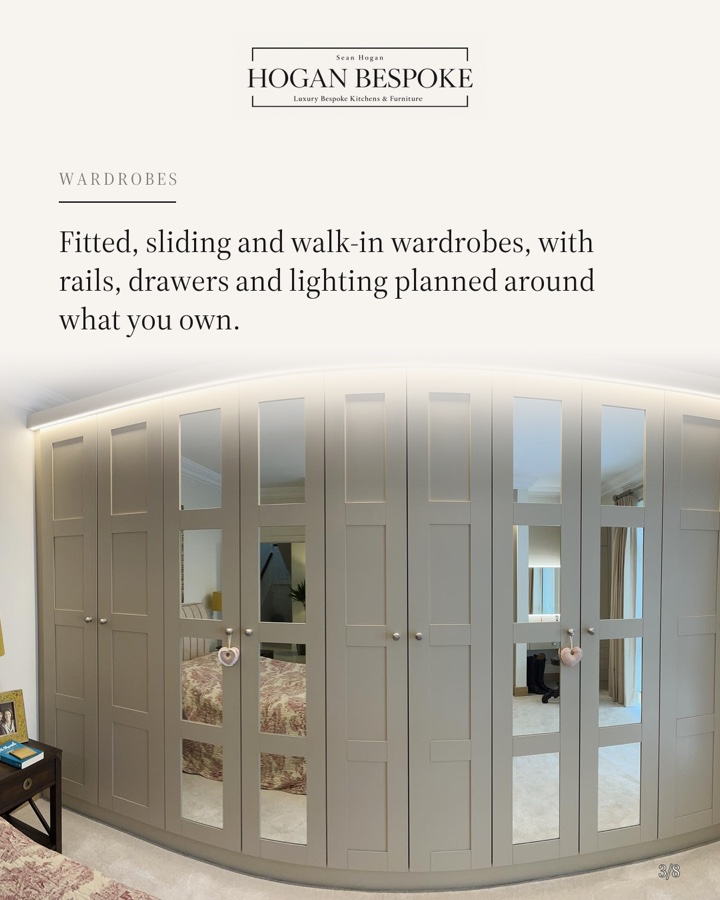
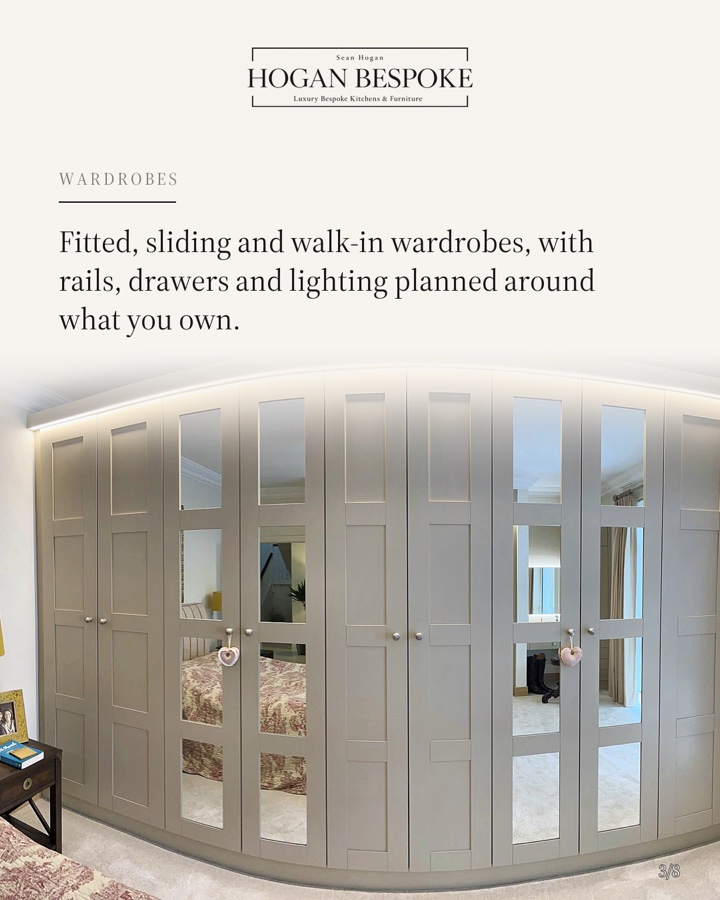
Hogan post 2: retouched photos and better crops

diff --git a/public/approve/hogan-bespoke-x96pyh/index.html b/public/approve/hogan-bespoke-x96pyh/index.html
@@ -37,7 +37,7 @@
     <span>Eli Fátima · Irish Business Boosters · hello@irishbusinessboosters.com</span>
   </footer>
 </div>
-<script id="approval-data" type="application/json">{"page": "hogan-bespoke-x96pyh", "client": "Sean", "username": "hogan_bespoke_furniture", "avatar": "logo.png", "location": "Waterford, Ireland", "profile": {"id": "profile", "title": "New bio and highlights", "chips": ["Pick one bio"], "intro": "This is how your profile will look by the end of November: the new bio, the new highlight covers and the new posts at the top.", "about": "Both bios say who you are, what you make, and that you fit all over Ireland. Pick the one that sounds more like you.", "name": "Hogan Bespoke | Kitchens Ireland", "category": "Kitchen & cabinet designer", "link": "hoganbespokefurniture.com", "stats": ["175", "1,407", "609"], "choices": [{"id": "Bio A", "label": "Bio A · leads with the title", "bio": "IrelandSkills cabinetmaking champion 🏆\nBespoke kitchens, wardrobes & media walls\nHandmade in Waterford · Fitted all over Ireland\n👇 Get a quote"}, {"id": "Bio B", "label": "Bio B · softer", "bio": "Award-winning cabinetmaker 🏆\nKitchens, wardrobes, media walls & stairs\nHandmade in Waterford · Fitted all over Ireland\n👇 Get a quote"}], "highlights": [{"src": "covers/light-01-our-story.jpg", "name": "Our Story"}, {"src": "covers/light-02-kitchens.jpg", "name": "Kitchens"}, {"src": "covers/light-03-reviews.jpg", "name": "Reviews"}, {"src": "covers/light-04-wardrobes.jpg", "name": "Wardrobes"}, {"src": "covers/light-05-media-walls.jpg", "name": "Media Walls"}, {"src": "covers/light-06-commercial.jpg", "name": "Commercial"}, {"src": "covers/light-07-process.jpg", "name": "Process"}, {"src": "covers/light-08-joinery.jpg", "name": "Joinery"}, {"src": "covers/light-09-get-a-quote.jpg", "name": "Get a Quote"}], "grid": ["posts/08-commercial.jpg?v=3", "posts/07-christmas-media-wall.jpg?v=3", "posts/06-wardrobes.jpg?v=3", "posts/05-workshop.jpg?v=3", "posts/04-kitchens.jpg?v=3", "posts/03-the-reveal.jpg?v=3", "posts/02-slide-01.jpg?v=1", "posts/01-slide-01.jpg?v=8", "posts/old-2026-trim-castle-hotel.jpg?v=3"]}, "postsTitle": "Your November posts", "postsIntro": "Eight posts, Mondays and Thursdays. Post 1 is fully designed; for the others you're seeing the cover, and we'll finish the slides as soon as the photos and details are in. The yellow bits are details we still need from you.", "posts": [{"id": "post-01", "date": "2026-11-02", "kind": "carousel", "title": "Come on in", "chips": ["Carousel · 9 slides", "Pinned to the top"], "images": ["posts/01-slide-01.jpg?v=9", "posts/01-slide-02.jpg?v=9", "posts/01-slide-03.jpg?v=11", "posts/01-slide-04.jpg?v=11", "posts/01-slide-05.jpg?v=11", "posts/01-slide-06.jpg?v=11", "posts/01-slide-07.jpg?v=11", "posts/01-slide-08.jpg?v=11", "posts/01-slide-09.jpg?v=11"], "about": "Our first post: the story of the company in nine slides, from the IrelandSkills title in 2017 to opening the workshop in 2020 and everything we make today.", "need": "Is there anything you'd change in the story? And if you have the original of the IrelandSkills photo, it would look sharper.", "caption": "Come on in. This is how we started.\n\nIn 2017, our founder Sean Hogan won IrelandSkills, the national championship for cabinetmaking, and went on to captain Team Ireland at WorldSkills in Abu Dhabi.\n\nIn August 2020, in the middle of a pandemic, we opened our workshop in Waterford.\n\nSince then we've designed and built kitchens, wardrobes, media walls and stairs for homes all over Ireland, and fitted out hotels and businesses like Trim Castle Hotel.\n\nEverything is still made by hand in our own workshop, to the same standard.\n\nOver the coming weeks we'll show you more of the work, and how it's made. Glad to have you here.", "tags": "#bespokekitchens #irishkitchens #handmadeinireland #bespokefurniture #waterford"}, {"id": "post-02", "date": "2026-11-05", "kind": "carousel", "title": "What we create", "chips": ["Carousel · 8 slides", "Pinned to the top"], "images": ["posts/02-slide-01.jpg?v=1", "posts/02-slide-02.jpg?v=1", "posts/02-slide-03.jpg?v=1", "posts/02-slide-04.jpg?v=1", "posts/02-slide-05.jpg?v=1", "posts/02-slide-06.jpg?v=1", "posts/02-slide-07.jpg?v=1", "posts/02-slide-08.jpg?v=1"], "about": "A clear menu of everything you do, one slide per service. It stays pinned so anyone landing on your profile sees it straight away.", "need": "Is anything missing from the list? And do you do handleless kitchens?", "caption": "What we create. Everything is designed and built for one room only. Here's what that covers:\n\n· Kitchens: shaker, in-frame and handleless, painted or natural wood\n· Wardrobes: fitted, sliding and walk-in\n· Media walls: TV units, fireplaces, shelving and lighting\n· Stairs & joinery: staircases, drinks units, panelling and doors\n· Home offices and utility rooms\n· Commercial fit-outs: hotels, bars, offices and public buildings\n\nWe fit all over Ireland. Tell us what you're planning: send us a message or tap the link in our bio.", "tags": "#bespokefurniture #bespokekitchens #fittedwardrobes #mediawall #madeinireland"}, {"id": "post-03", "date": "2026-11-09", "kind": "reel", "length": "15 s", "title": "The reveal: navy kitchen", "chips": ["Reel"], "images": ["posts/03-the-reveal.jpg?v=3"], "about": "A slow walk into the navy kitchen, past the island, a drawer opening and closing softly. Calm music, no talking.", "need": "A video of this kitchen, if you have one (even a short phone clip). If not, I'll make it from the photos. Roughly how many weeks did it take?", "caption": "Every one of our kitchens is designed and built for one room only.\n\nThis one: navy painted shaker doors, premium stone worktops and a waterfall island. [X] weeks from first measure to final fit.\n\nPlanning a kitchen for 2027? Send us a message or tap the link in our bio.", "tags": "#bespokekitchens #navykitchen #irishkitchens #kitchendesignireland"}, {"id": "post-04", "date": "2026-11-12", "kind": "carousel", "title": "What we make: Kitchens", "chips": ["Carousel · 6 slides", "Series: What we make", "Cover shown"], "images": ["posts/04-kitchens.jpg?v=3"], "about": "The first of the \"What we make\" series. Slides: the styles (shaker, in-frame, handleless) · the materials · what's included · how long it takes · how to start.", "need": "How long does a kitchen usually take, from first visit to fitted? And which worktops do you use most?", "caption": "What goes into a Hogan Bespoke kitchen?\n\n· The style: shaker, in-frame or handleless\n· The wood: solid oak, ash or walnut, painted or natural\n· The worktop: [quartz, stone or solid wood]\n· The design: you see it in 3D before we cut a single board\n· The timing: around [X] weeks from first visit to final fit\n\nAll made in our workshop in Waterford and fitted by our own team, anywhere in Ireland.\n\nSwipe for the details 👉", "tags": "#bespokekitchens #shakerkitchen #irishkitchens #kitchendesignireland"}, {"id": "post-05", "date": "2026-11-16", "kind": "reel", "length": "15–20 s", "title": "From the workshop", "chips": ["Reel"], "images": ["posts/05-workshop.jpg?v=3"], "about": "Quick clips of hands and timber: cutting, shaping, sanding and assembling a door, with the real workshop sound. Ends on the finished piece.", "need": "We film this together on Tuesday 27 October. Five minutes at the bench is plenty.", "caption": "Before it's a kitchen door, it's a board of [timber] on our bench in Waterford.\n\nWe cut, shape, sand and assemble everything ourselves, so we control every millimetre, and nothing arrives on site that we haven't checked by hand.", "tags": "#handmadeinireland #cabinetmaker #bespokefurniture #waterford"}, {"id": "post-06", "date": "2026-11-19", "kind": "carousel", "title": "What we make: Wardrobes", "chips": ["Carousel · 6 slides", "Series: What we make", "Cover shown"], "images": ["posts/06-wardrobes.jpg?v=3"], "about": "Series, part 2. Slides: fitted · sliding · walk-in · children's rooms · what goes inside (rails, drawers, shoe racks, lighting).", "caption": "Fitted, sliding or walk-in: every wardrobe we make is built around the room and what goes in it.\n\nInside, you choose: hanging rails and pull-down rails, drawers, shoe racks, shelving and LED lighting.\n\nSwipe to see the options 👉\n\nThinking about a wardrobe? Send us a message with a photo of the space.", "tags": "#fittedwardrobes #walkinwardrobe #bespokefurniture #irishhomes"}, {"id": "post-07", "date": "2026-11-23", "kind": "reel", "length": "10–15 s", "title": "The room you'll spend Christmas in", "chips": ["Reel", "Christmas"], "images": ["posts/07-christmas-media-wall.jpg?v=3"], "about": "Starts on a detail (the LED light, a shelf) and opens out to the whole media wall, with the fire on.", "need": "A video of a media wall with the lights or fire on, if you have one.", "caption": "The room everyone ends up in at Christmas.\n\nThis media wall hides every cable, frames the fire and lights up the shelves, all built to fit the room to the millimetre.\n\nToo late for this Christmas? Plenty of time for the next one. Send us a message.", "tags": "#mediawall #livingroomideas #irishhomes #christmasathome"}, {"id": "post-08", "date": "2026-11-26", "kind": "carousel", "title": "What we make: Commercial", "chips": ["Carousel · 6 slides", "Series: What we make", "Cover shown"], "images": ["posts/08-commercial.jpg?v=3"], "about": "Series, part 3: the Trim Castle Hotel fit-out, with the other businesses you've built for on the last slide.", "need": "Are you happy for us to name The Fitzwilton, Bausch + Lomb, Clonmel Credit Union and the Garda station? I can leave out any of them.", "caption": "It's not only homes.\n\nWe recently completed the fit-out at Trim Castle Hotel: [what we built, e.g. the bar and back bar], made in our Waterford workshop and fitted on site.\n\nOver the years we've also built for The Fitzwilton Hotel, Bausch + Lomb, Clonmel Credit Union and Waterford Garda Station.\n\nPlanning a fit-out? Email sales@hoganbespoke.com.", "tags": "#commercialjoinery #hotelinteriors #shopfitting #madeinireland"}]}</script>
+<script id="approval-data" type="application/json">{"page": "hogan-bespoke-x96pyh", "client": "Sean", "username": "hogan_bespoke_furniture", "avatar": "logo.png", "location": "Waterford, Ireland", "profile": {"id": "profile", "title": "New bio and highlights", "chips": ["Pick one bio"], "intro": "This is how your profile will look by the end of November: the new bio, the new highlight covers and the new posts at the top.", "about": "Both bios say who you are, what you make, and that you fit all over Ireland. Pick the one that sounds more like you.", "name": "Hogan Bespoke | Kitchens Ireland", "category": "Kitchen & cabinet designer", "link": "hoganbespokefurniture.com", "stats": ["175", "1,407", "609"], "choices": [{"id": "Bio A", "label": "Bio A · leads with the title", "bio": "IrelandSkills cabinetmaking champion 🏆\nBespoke kitchens, wardrobes & media walls\nHandmade in Waterford · Fitted all over Ireland\n👇 Get a quote"}, {"id": "Bio B", "label": "Bio B · softer", "bio": "Award-winning cabinetmaker 🏆\nKitchens, wardrobes, media walls & stairs\nHandmade in Waterford · Fitted all over Ireland\n👇 Get a quote"}], "highlights": [{"src": "covers/light-01-our-story.jpg", "name": "Our Story"}, {"src": "covers/light-02-kitchens.jpg", "name": "Kitchens"}, {"src": "covers/light-03-reviews.jpg", "name": "Reviews"}, {"src": "covers/light-04-wardrobes.jpg", "name": "Wardrobes"}, {"src": "covers/light-05-media-walls.jpg", "name": "Media Walls"}, {"src": "covers/light-06-commercial.jpg", "name": "Commercial"}, {"src": "covers/light-07-process.jpg", "name": "Process"}, {"src": "covers/light-08-joinery.jpg", "name": "Joinery"}, {"src": "covers/light-09-get-a-quote.jpg", "name": "Get a Quote"}], "grid": ["posts/08-commercial.jpg?v=3", "posts/07-christmas-media-wall.jpg?v=3", "posts/06-wardrobes.jpg?v=3", "posts/05-workshop.jpg?v=3", "posts/04-kitchens.jpg?v=3", "posts/03-the-reveal.jpg?v=3", "posts/02-slide-01.jpg?v=1", "posts/01-slide-01.jpg?v=8", "posts/old-2026-trim-castle-hotel.jpg?v=3"]}, "postsTitle": "Your November posts", "postsIntro": "Eight posts, Mondays and Thursdays. Post 1 is fully designed; for the others you're seeing the cover, and we'll finish the slides as soon as the photos and details are in. The yellow bits are details we still need from you.", "posts": [{"id": "post-01", "date": "2026-11-02", "kind": "carousel", "title": "Come on in", "chips": ["Carousel · 9 slides", "Pinned to the top"], "images": ["posts/01-slide-01.jpg?v=9", "posts/01-slide-02.jpg?v=9", "posts/01-slide-03.jpg?v=11", "posts/01-slide-04.jpg?v=11", "posts/01-slide-05.jpg?v=11", "posts/01-slide-06.jpg?v=11", "posts/01-slide-07.jpg?v=11", "posts/01-slide-08.jpg?v=11", "posts/01-slide-09.jpg?v=11"], "about": "Our first post: the story of the company in nine slides, from the IrelandSkills title in 2017 to opening the workshop in 2020 and everything we make today.", "need": "Is there anything you'd change in the story? And if you have the original of the IrelandSkills photo, it would look sharper.", "caption": "Come on in. This is how we started.\n\nIn 2017, our founder Sean Hogan won IrelandSkills, the national championship for cabinetmaking, and went on to captain Team Ireland at WorldSkills in Abu Dhabi.\n\nIn August 2020, in the middle of a pandemic, we opened our workshop in Waterford.\n\nSince then we've designed and built kitchens, wardrobes, media walls and stairs for homes all over Ireland, and fitted out hotels and businesses like Trim Castle Hotel.\n\nEverything is still made by hand in our own workshop, to the same standard.\n\nOver the coming weeks we'll show you more of the work, and how it's made. Glad to have you here.", "tags": "#bespokekitchens #irishkitchens #handmadeinireland #bespokefurniture #waterford"}, {"id": "post-02", "date": "2026-11-05", "kind": "carousel", "title": "What we create", "chips": ["Carousel · 8 slides", "Pinned to the top"], "images": ["posts/02-slide-01.jpg?v=1", "posts/02-slide-02.jpg?v=2", "posts/02-slide-03.jpg?v=2", "posts/02-slide-04.jpg?v=2", "posts/02-slide-05.jpg?v=2", "posts/02-slide-06.jpg?v=2", "posts/02-slide-07.jpg?v=2", "posts/02-slide-08.jpg?v=2"], "about": "A clear menu of everything you do, one slide per service. It stays pinned so anyone landing on your profile sees it straight away.", "need": "Is anything missing from the list? And do you do handleless kitchens?", "caption": "What we create. Everything is designed and built for one room only. Here's what that covers:\n\n· Kitchens: shaker, in-frame and handleless, painted or natural wood\n· Wardrobes: fitted, sliding and walk-in\n· Media walls: TV units, fireplaces, shelving and lighting\n· Stairs & joinery: staircases, drinks units, panelling and doors\n· Home offices and utility rooms\n· Commercial fit-outs: hotels, bars, offices and public buildings\n\nWe fit all over Ireland. Tell us what you're planning: send us a message or tap the link in our bio.", "tags": "#bespokefurniture #bespokekitchens #fittedwardrobes #mediawall #madeinireland"}, {"id": "post-03", "date": "2026-11-09", "kind": "reel", "length": "15 s", "title": "The reveal: navy kitchen", "chips": ["Reel"], "images": ["posts/03-the-reveal.jpg?v=3"], "about": "A slow walk into the navy kitchen, past the island, a drawer opening and closing softly. Calm music, no talking.", "need": "A video of this kitchen, if you have one (even a short phone clip). If not, I'll make it from the photos. Roughly how many weeks did it take?", "caption": "Every one of our kitchens is designed and built for one room only.\n\nThis one: navy painted shaker doors, premium stone worktops and a waterfall island. [X] weeks from first measure to final fit.\n\nPlanning a kitchen for 2027? Send us a message or tap the link in our bio.", "tags": "#bespokekitchens #navykitchen #irishkitchens #kitchendesignireland"}, {"id": "post-04", "date": "2026-11-12", "kind": "carousel", "title": "What we make: Kitchens", "chips": ["Carousel · 6 slides", "Series: What we make", "Cover shown"], "images": ["posts/04-kitchens.jpg?v=3"], "about": "The first of the \"What we make\" series. Slides: the styles (shaker, in-frame, handleless) · the materials · what's included · how long it takes · how to start.", "need": "How long does a kitchen usually take, from first visit to fitted? And which worktops do you use most?", "caption": "What goes into a Hogan Bespoke kitchen?\n\n· The style: shaker, in-frame or handleless\n· The wood: solid oak, ash or walnut, painted or natural\n· The worktop: [quartz, stone or solid wood]\n· The design: you see it in 3D before we cut a single board\n· The timing: around [X] weeks from first visit to final fit\n\nAll made in our workshop in Waterford and fitted by our own team, anywhere in Ireland.\n\nSwipe for the details 👉", "tags": "#bespokekitchens #shakerkitchen #irishkitchens #kitchendesignireland"}, {"id": "post-05", "date": "2026-11-16", "kind": "reel", "length": "15–20 s", "title": "From the workshop", "chips": ["Reel"], "images": ["posts/05-workshop.jpg?v=3"], "about": "Quick clips of hands and timber: cutting, shaping, sanding and assembling a door, with the real workshop sound. Ends on the finished piece.", "need": "We film this together on Tuesday 27 October. Five minutes at the bench is plenty.", "caption": "Before it's a kitchen door, it's a board of [timber] on our bench in Waterford.\n\nWe cut, shape, sand and assemble everything ourselves, so we control every millimetre, and nothing arrives on site that we haven't checked by hand.", "tags": "#handmadeinireland #cabinetmaker #bespokefurniture #waterford"}, {"id": "post-06", "date": "2026-11-19", "kind": "carousel", "title": "What we make: Wardrobes", "chips": ["Carousel · 6 slides", "Series: What we make", "Cover shown"], "images": ["posts/06-wardrobes.jpg?v=3"], "about": "Series, part 2. Slides: fitted · sliding · walk-in · children's rooms · what goes inside (rails, drawers, shoe racks, lighting).", "caption": "Fitted, sliding or walk-in: every wardrobe we make is built around the room and what goes in it.\n\nInside, you choose: hanging rails and pull-down rails, drawers, shoe racks, shelving and LED lighting.\n\nSwipe to see the options 👉\n\nThinking about a wardrobe? Send us a message with a photo of the space.", "tags": "#fittedwardrobes #walkinwardrobe #bespokefurniture #irishhomes"}, {"id": "post-07", "date": "2026-11-23", "kind": "reel", "length": "10–15 s", "title": "The room you'll spend Christmas in", "chips": ["Reel", "Christmas"], "images": ["posts/07-christmas-media-wall.jpg?v=3"], "about": "Starts on a detail (the LED light, a shelf) and opens out to the whole media wall, with the fire on.", "need": "A video of a media wall with the lights or fire on, if you have one.", "caption": "The room everyone ends up in at Christmas.\n\nThis media wall hides every cable, frames the fire and lights up the shelves, all built to fit the room to the millimetre.\n\nToo late for this Christmas? Plenty of time for the next one. Send us a message.", "tags": "#mediawall #livingroomideas #irishhomes #christmasathome"}, {"id": "post-08", "date": "2026-11-26", "kind": "carousel", "title": "What we make: Commercial", "chips": ["Carousel · 6 slides", "Series: What we make", "Cover shown"], "images": ["posts/08-commercial.jpg?v=3"], "about": "Series, part 3: the Trim Castle Hotel fit-out, with the other businesses you've built for on the last slide.", "need": "Are you happy for us to name The Fitzwilton, Bausch + Lomb, Clonmel Credit Union and the Garda station? I can leave out any of them.", "caption": "It's not only homes.\n\nWe recently completed the fit-out at Trim Castle Hotel: [what we built, e.g. the bar and back bar], made in our Waterford workshop and fitted on site.\n\nOver the years we've also built for The Fitzwilton Hotel, Bausch + Lomb, Clonmel Credit Union and Waterford Garda Station.\n\nPlanning a fit-out? Email sales@hoganbespoke.com.", "tags": "#commercialjoinery #hotelinteriors #shopfitting #madeinireland"}]}</script>
 <script src="/approve/_assets/approve.js?v=3"></script>
 </body>
 </html>
